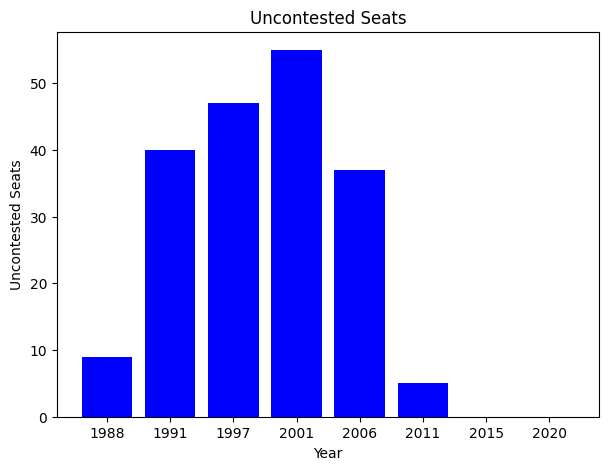
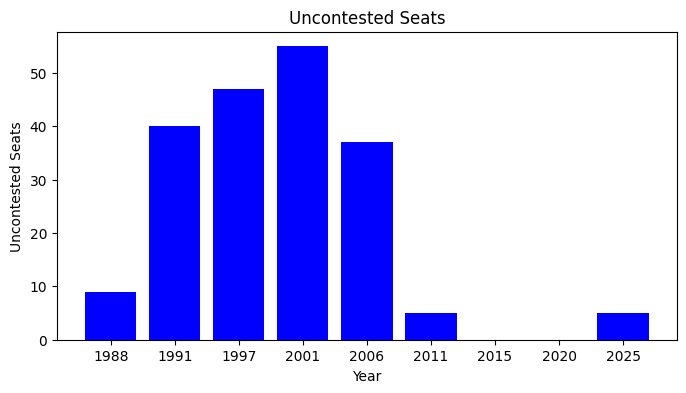
updated no GRC post

Changed region(s): [[0.0, 0.0, 0.9984, 0.9771]]

diff --git a/_projects/NoGRC.md b/_projects/NoGRC.md
@@ -8,6 +8,8 @@ category: for fun
 related_publications: false
 ---
 
+*June 2026 Update: Added 2025 GE results.*
+
 Data and code used for this article are [here](https://github.com/LingxiTang/NoGRCExperiment).
 
 This post summarises the main findings from a experiment I conducted and there will also be a rant on the GRC system at the end. 
@@ -47,7 +49,7 @@ To answer this question, I looked at the GE results from 1988 to 2010, and appli
 
 - Results of SMCs remain the same.
 
-- PAP gets the rounded up number of seats based on the vote proportion. e.g. If PAP wins 51-75% of votes in a 4-member GRC, they win 3 seats. (This is the Pro-PAP scenario. More scenarios later.)
+- PAP gets the rounded up number of seats based on the vote proportion. e.g. If PAP wins 51-75% of votes in a 4-member GRC, they win 3 seats. (This is the 'Pro-PAP' scenario. More scenarios will be explored later.)
 
 ____________________________________________________________________________________________________________________________________________________________________________________
 
@@ -69,9 +71,9 @@ As expected, if GRCs had been proportionally represented, we see the winning par
 
 Interestingly, in 2020, even WP benefitted from the GRC system because they, well, won GRC seats, in Aljunied and Sengkang.
 
-I know what you're thinking. *Bruh, where's the label for 2011*
+I know what you're thinking. *Bruh, where's the label for 2011* (*June 2026 Update: Previously, the x-axis label for 2011 was missing due to a code bug. I've fixed it now*)
 
-Turns out it’s a bug caused by the fact that WP didn’t contest any GRCs in 2001. This then led me to realise that WP was not the main opposition party until relatively recently. In fact, between 1988 and 2001, WP only won 1 seat, on par with the Chiam See Tong/Chee Soon Juan parties of SDP, SPP and SDA.
+Turns out it’s a bug caused by the fact that WP didn’t contest any GRCs in 2001.  This then led me to realise that WP was not the main opposition party until relatively recently. In fact, between 1988 and 2001, WP only won 1 seat, on par with the Chiam See Tong/Chee Soon Juan parties of SDP, SPP and SDA.
 
 *What happened in 2011? Why the big spike in seat changes?*
 
@@ -79,7 +81,7 @@ To answer this, I thought it might be because GRC seat numbers jumped in 2011 an
 
 Anddd I was wrong: % of seats in GRCs were pretty stable since 1997. So, this couldn’t have been the reason behind the 2011 spike in seat changes.
 
-I looked bit deeper and alas, 2011 was the first year since 1988 that all seats were contested. As in, between 1988 and 2006, PAP won a bunch of uncontested seats (See Right below). 
+I looked bit deeper and alas, 2011 was the first year since 1988 that all seats were contested. As in, between 1988 and 2006, PAP won a bunch of uncontested seats (See Fig on the right below). 
 
 Under my scenario assumptions, these seats would not change since there were no opposition votes. Thus, it makes sense that 2011 would see a spike in the seat change.
 
@@ -137,14 +139,14 @@ Alright again, let's look at how many seats each party would have gained/lost in
 
 Comparing 'Pro-Winner' and 'Pro-PAP':
 
-The differences are minimal. The simple reason is that the PAP had been winning and so, they’re practically the same scenario. The main differences between these 2 scenarios happen when opposition actually won GRC seats (i.e. WP in 2011 - 2020).
+The differences are minimal. The simple reason is that the PAP had been winning and so, they’re practically the same scenario. The main differences between these 2 scenarios happen when opposition actually won GRC seats (i.e. WP in 2011 - 2025).
 
 Comparing 'Anti-PAP' and 'Pro-PAP':
 
 Now this is where it gets interesting. Basically, what happens is that seat changes doubled in 'Anti-PAP' compared to 'Pro-PAP'. For e.g., if the seat change for PAP was -10 in 'Pro-PAP', it would be roughly -20 in 'Anti-PAP'. 
 These two scenarios could be interpreted as the “best case” and “worst case” for the PAP.
 
-In the worst case, oof, 30 SEATS LOST from the PAP, had there been no GRC. Hm, would they still have had a supermajority?
+In the worst case, oof, 30 SEATS LOST from the PAP, had there been no GRC. Hm, but would they still have had a supermajority, in the 'Anti-PAP' scenario?
 
 ____________________________________________________________________________________________________________________________________________________________________________________
 *Supermajority?*
@@ -155,7 +157,7 @@ the [2016 minority president amendment](https://web.archive.org/web/201906061650
 
 ____________________________________________________________________________________________________________________________________________________________________________________
 
-At this stage, I invite you to play with the interactive dashboard below, where you can compare actual and hypothetical GE results. Pick a year and a scenario; hover (or tap) a segment for details. The dashed lines mark the &frac12; majority and &frac23; supermajority thresholds. (Prefer the notebook version? It's still on [Binder](https://mybinder.org/v2/gh/LingxiTang/NoGRCExperiment/HEAD?labpath=Results_Visualisation_interactive.ipynb).)
+At this stage, I invite you to play with the interactive dashboard below, where you can compare actual and hypothetical GE results. The dashed lines mark the simple majority and supermajority thresholds.
 
 {% raw %}
 <style>
@@ -362,7 +364,7 @@ Using this dashboard, I compiled the following results regarding PAP's supermajo
 
 Pro-PAP: 
 
-- 1988-2020: PAP holds a supermajority.
+- 1988-2025: PAP holds a supermajority.
 
 Anti-PAP:
 
@@ -370,6 +372,7 @@ Anti-PAP:
 - 2011:         PAP misses supermajority by 7 seats, but wins 7 seats above majority.
 - 2015:         PAP misses a supermajority by 3 seats, but wins 12 seats above majority.
 - 2020:         PAP misses supermajority by 9 seats, but wins 6 seats above majority.
+- 2025:         PAP misses supermajority by 6 seats, but wins 11 seats above majority.
 
 So, even without GRCs, PAP would still have a supermajority in the best case, and still have a safe majority in the worst case.
 
@@ -416,7 +419,7 @@ ________________________________________________________________________________
 
 __CONCLUSION__
 
-For the record, I am not even anti-PAP. Personally, I highly value our unique “democratic one-party system”. Singapore is super lucky to have proper unrigged elections, while enjoying the efficiency of a one-party state.
+For the record, I am supportive of the PAP. I highly value our unique “democratic one-party system”. Singapore is super lucky to have proper unrigged elections, while enjoying the efficiency of a one-party state.
 
 Even so, I still think that the GRC system needs to go. It's unnecessarily unfair, and it's not even helping in promoting minority representation in parliament. 
 
@@ -426,7 +429,7 @@ Removing or reforming the GRC system is a step Singapore can take towards a fair
 
 And finally,
 
-This is really not priority. I wrote this because I was bored and one thing led to another.
+This is really not priority. I wrote this because I was bored.
 
-Climate change is the priority. My vote will go to the party with the better Net Zero Strategy for Singapore. 
+Climate change and sustainable development are my priorities. My vote will go to the party with the better Net Zero Strategy for Singapore. 
 
